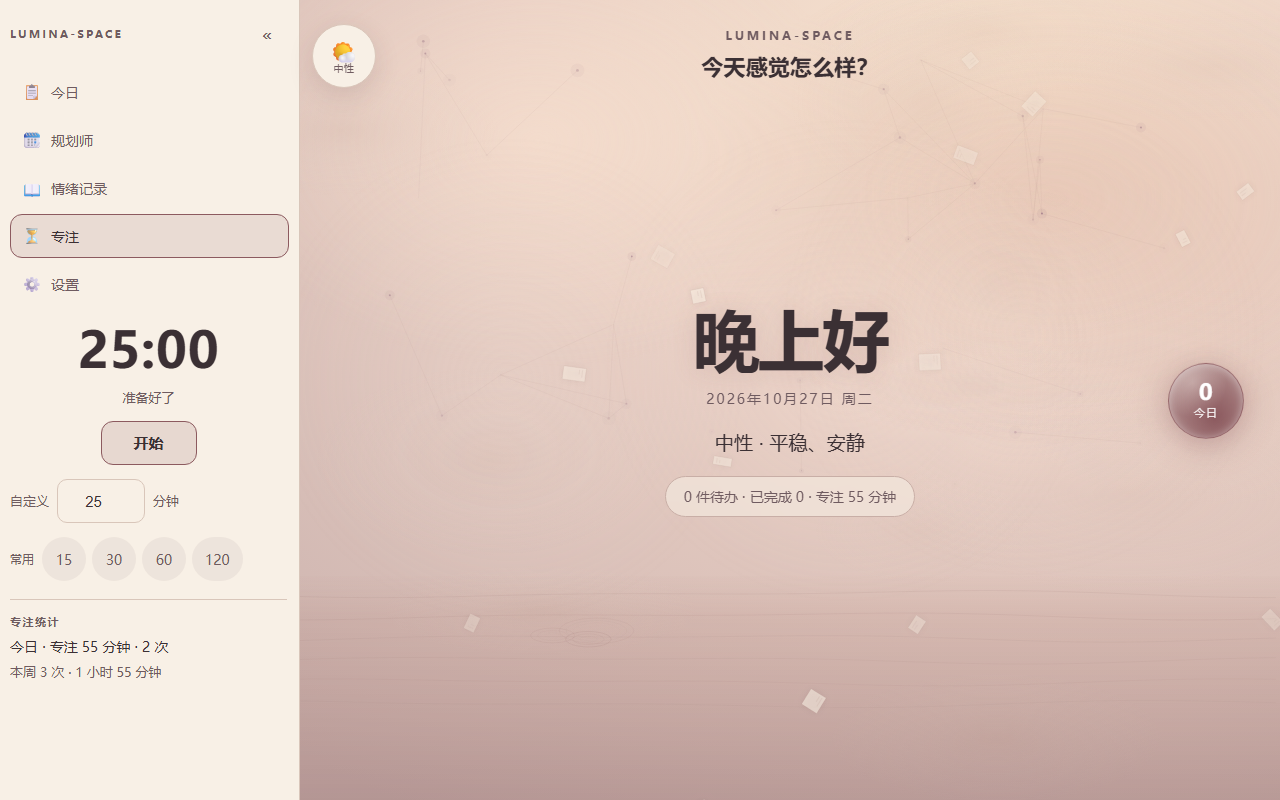
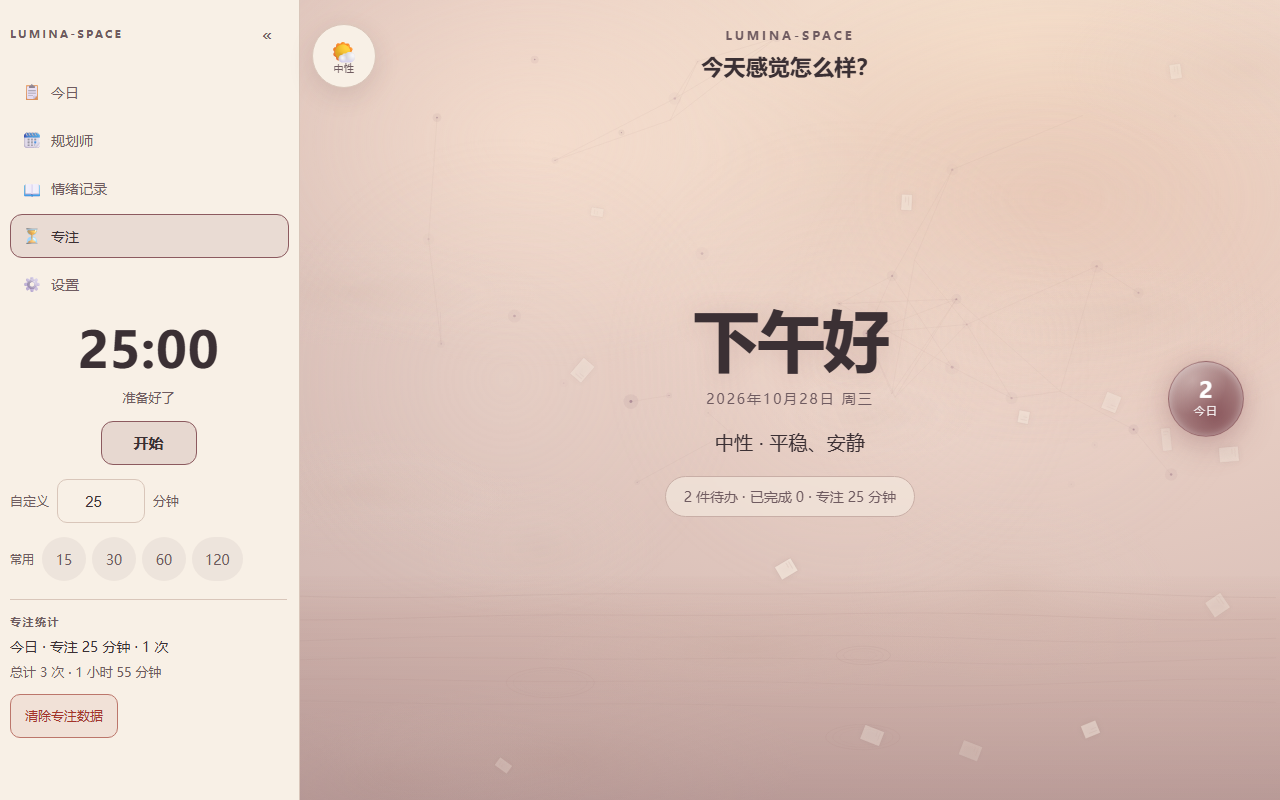
docs: update README, CHANGELOG and AGENTS for v1.3.2

diff --git a/AGENTS.md b/AGENTS.md
@@ -14,6 +14,7 @@ Guidance for AI agents working on **Lumina-Space** — a mood-aware todo and foc
 - **v1.2.1 (2026-10-27)**: soundscape loading state (fade in only when the element is actually audible), stopped old-track downloads, engine-level enable/mute authority, stale-fade race fixes; 153 tests.
 - **v1.3 (2026-10-27)**: planner reworked — selectable start date (that day becomes the first column), 365 days instead of 7, `YYYY年，M月` title that follows horizontal scrolling; task list sorted by priority 60% + days-to-due 40%; complete / uncomplete / delete confirmations everywhere; Today panel shows open tasks only plus a collapsible completed-tasks stats card (default filter `open`); new **mood journal** view (`features/journal/`) with 22 built-in emotion words plus a custom word, event description and a -724..597 score; focus cap 487 → 486; settings version `v1.3.0`; 193 tests.
 - **v1.3.1 (2026-10-27)**: mood journal now supports editing (keeps `id` / `createdAt`), deletion with the shared `ConfirmDialog` (moved to `src/lib/`), a top date-pin control (notes from the selected local date move to the top, the rest keep their relative order; no-op when that date is empty) and keyword search across emotion + content; settings `v1.3.1`; README screenshots refreshed; 208 tests.
+- **v1.3.2 (2026-10-28)**: per-mood custom backgrounds in settings (upload / replace / restore, 1920×1080 recommendation, client-side JPEG compression stored as data URLs in `customBackgrounds`; the Stage swaps the canvas scene for the image), focus completion toast + two-tone chime, focus stats "total" instead of "this week" with a separate clear-focus-data action, and mood-journal `updatedAt` shown as "再次编辑于"; settings `v1.3.2`; README version table trimmed to current simple mode + planned v2.0; 231 tests.
 - **Next: v2.0 "3D mode"** — a code-generated stylized cottage (`three` + R3F). It is an *alternative* to simple mode, not a replacement. Do not start 3D before the v2.0 card.
 
 > Soundscape note: the three looping mp3s are **not** in this repo; they live in GitHub Release `audio-v1.2`
@@ -36,9 +37,9 @@ src/
   features/mood/    MoodDial, mood.ts, useMood
   features/tasks/   task CRUD, editor, CompletedTasks
   features/journal/ mood journal (MoodNoteEditor, EmotionPicker, JournalView)
-  features/focus/   focus timer + stats
-  features/settings/SettingsPanel
-  lib/              shared types, storage adapter, planner helpers, audio, ConfirmDialog
+  features/focus/   focus timer + stats + completion toast
+  features/settings/SettingsPanel, BackgroundSettings
+  lib/              shared types, storage adapter, planner helpers, audio, ConfirmDialog, customBackground
   styles/           tokens.css, global.css
 tests/              mirror of src
 docs/

diff --git a/CHANGELOG.md b/CHANGELOG.md
@@ -1,5 +1,38 @@
 # Changelog
 
+## v1.3.2 — 2026-10-28
+
+### 新增
+
+- **自定义背景**：设置里新增「自定义背景」，按积极 / 中性 / 消极分别上传、替换或恢复原先场景。
+  推荐 1920×1080（16:9）横图，支持 JPG / PNG / WebP、单文件 ≤ 12 MB；自动等比缩放（不放大）、
+  白底转 JPEG（质量 0.85 → 0.65，过长再缩），只存本机 `localStorage`（`customBackgrounds`，单图 data URL
+  约 1.4M 字符上限）；有背景的情绪在主页用图片替换 Canvas/CSS 场景，问候层加半透明底保证可读。
+- **番茄钟完成提醒**：完成时右下角弹出 `专注完成！休息一下吧。`（6 秒自动消失，可点「知道了」），
+  并播放两声短促提示音（`SoundCue='done'`，受静音开关控制）。
+- **专注数据单独清除**：专注面板新增「清除专注数据」，二次确认后只清空 `focusSessions`，
+  不影响任务、情绪记录与背景设置。
+- **情绪记录「再次编辑于」**：`MoodNote.updatedAt` 在每次成功保存时写入；列表在原时间下方显示
+  `再次编辑于 YYYY-MM-DD HH:mm`，创建时间与列表位置不变。
+
+### 改进
+
+- **专注统计**：第二行由「本周」改为 **「总计」**（全部专注记录累计）；
+  新增 `getTotalFocusStats`，删除 `getWeekFocusStats`。
+- **README**：版本记录裁成两行——当前「简易模式」整体一行 + 计划中的 v2.0 一行；
+  badge / 功能列表 / 截图同步到 v1.3.2。设置版本 `v1.3.2`。
+- **截图**：设置（含自定义背景）、专注、情绪记录更新为 v1.3.2 实拍。
+
+### 质量
+
+- **231 条单元测试**（v1.3.1 的 208 条 + 新增 23 条：背景尺寸 / 校验 / 压缩边界 / 迁移、专注总计与
+  `done` 提示音、情绪记录 `updatedAt` 等）。
+- `npm run check` / `npm test` / `npm run build` 通过；暂存区与仓库镜像校验通过。
+- 浏览器实测（1280×800）：上传 1920×1080 图后压缩为约 42 KB data URL、主页替换场景且不渲染 Canvas、
+  恢复原先场景生效；专注「总计 3 次 · 1 小时 55 分钟」、清除只清专注；1 分钟番茄钟完成后 toast
+  出现并在 6 秒后消失；情绪记录编辑时间行显示。
+- 审查：实现者会话中途失败；Lead 完成代码核对、231 tests、浏览器验收与静态自查（critical / high / medium 0）。
+
 ## v1.3.1 — 2026-10-27
 
 ### 新增
